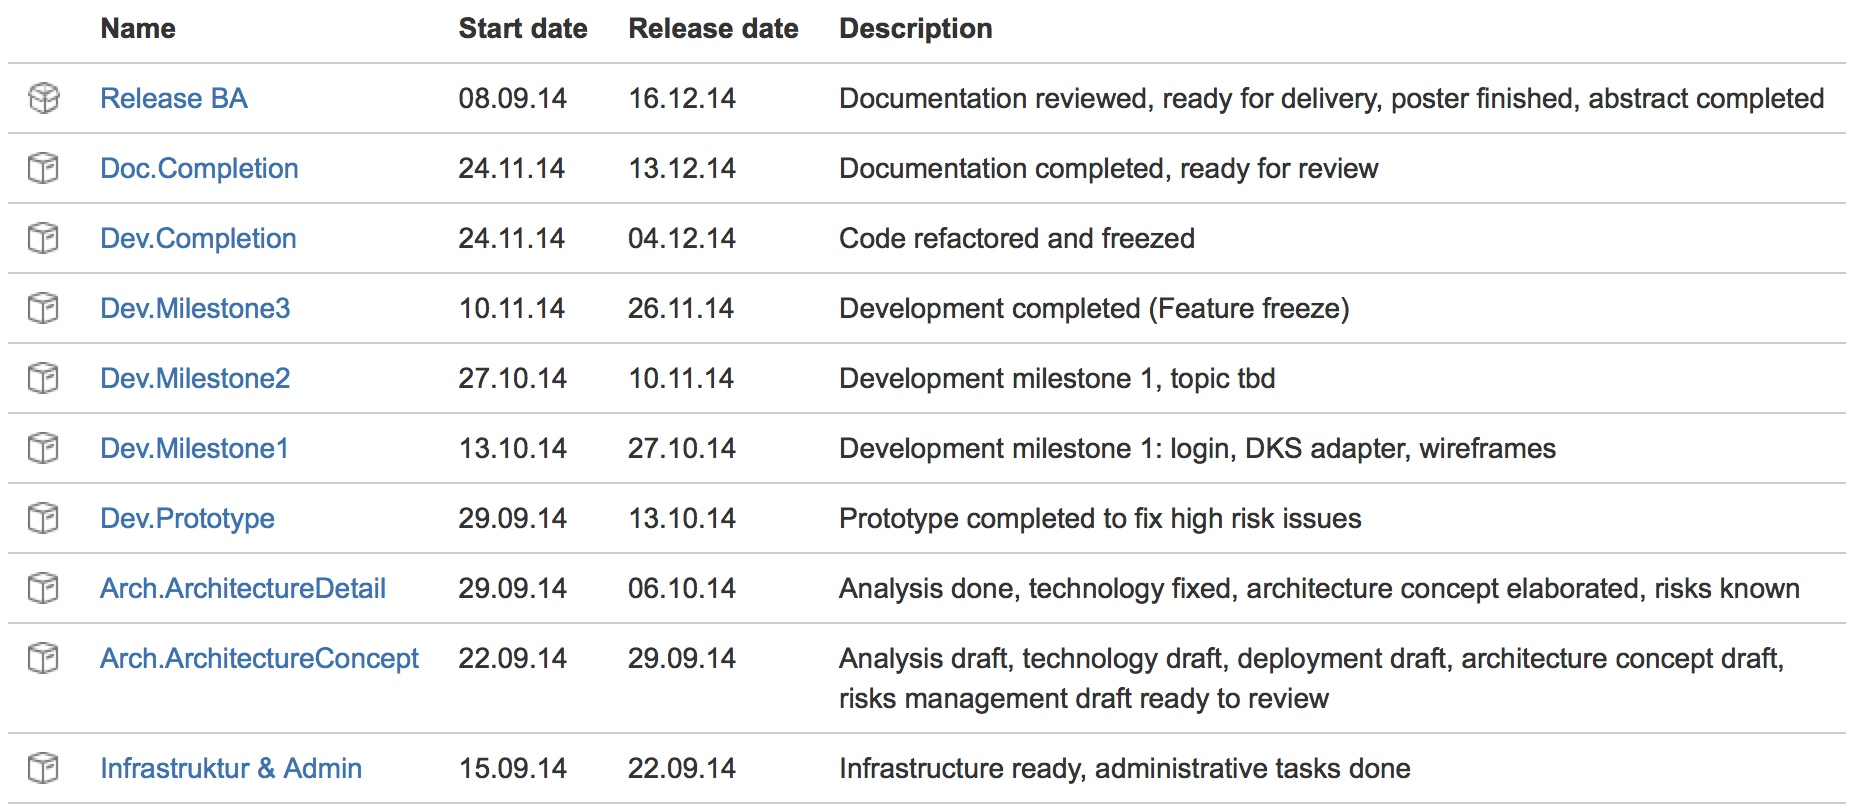
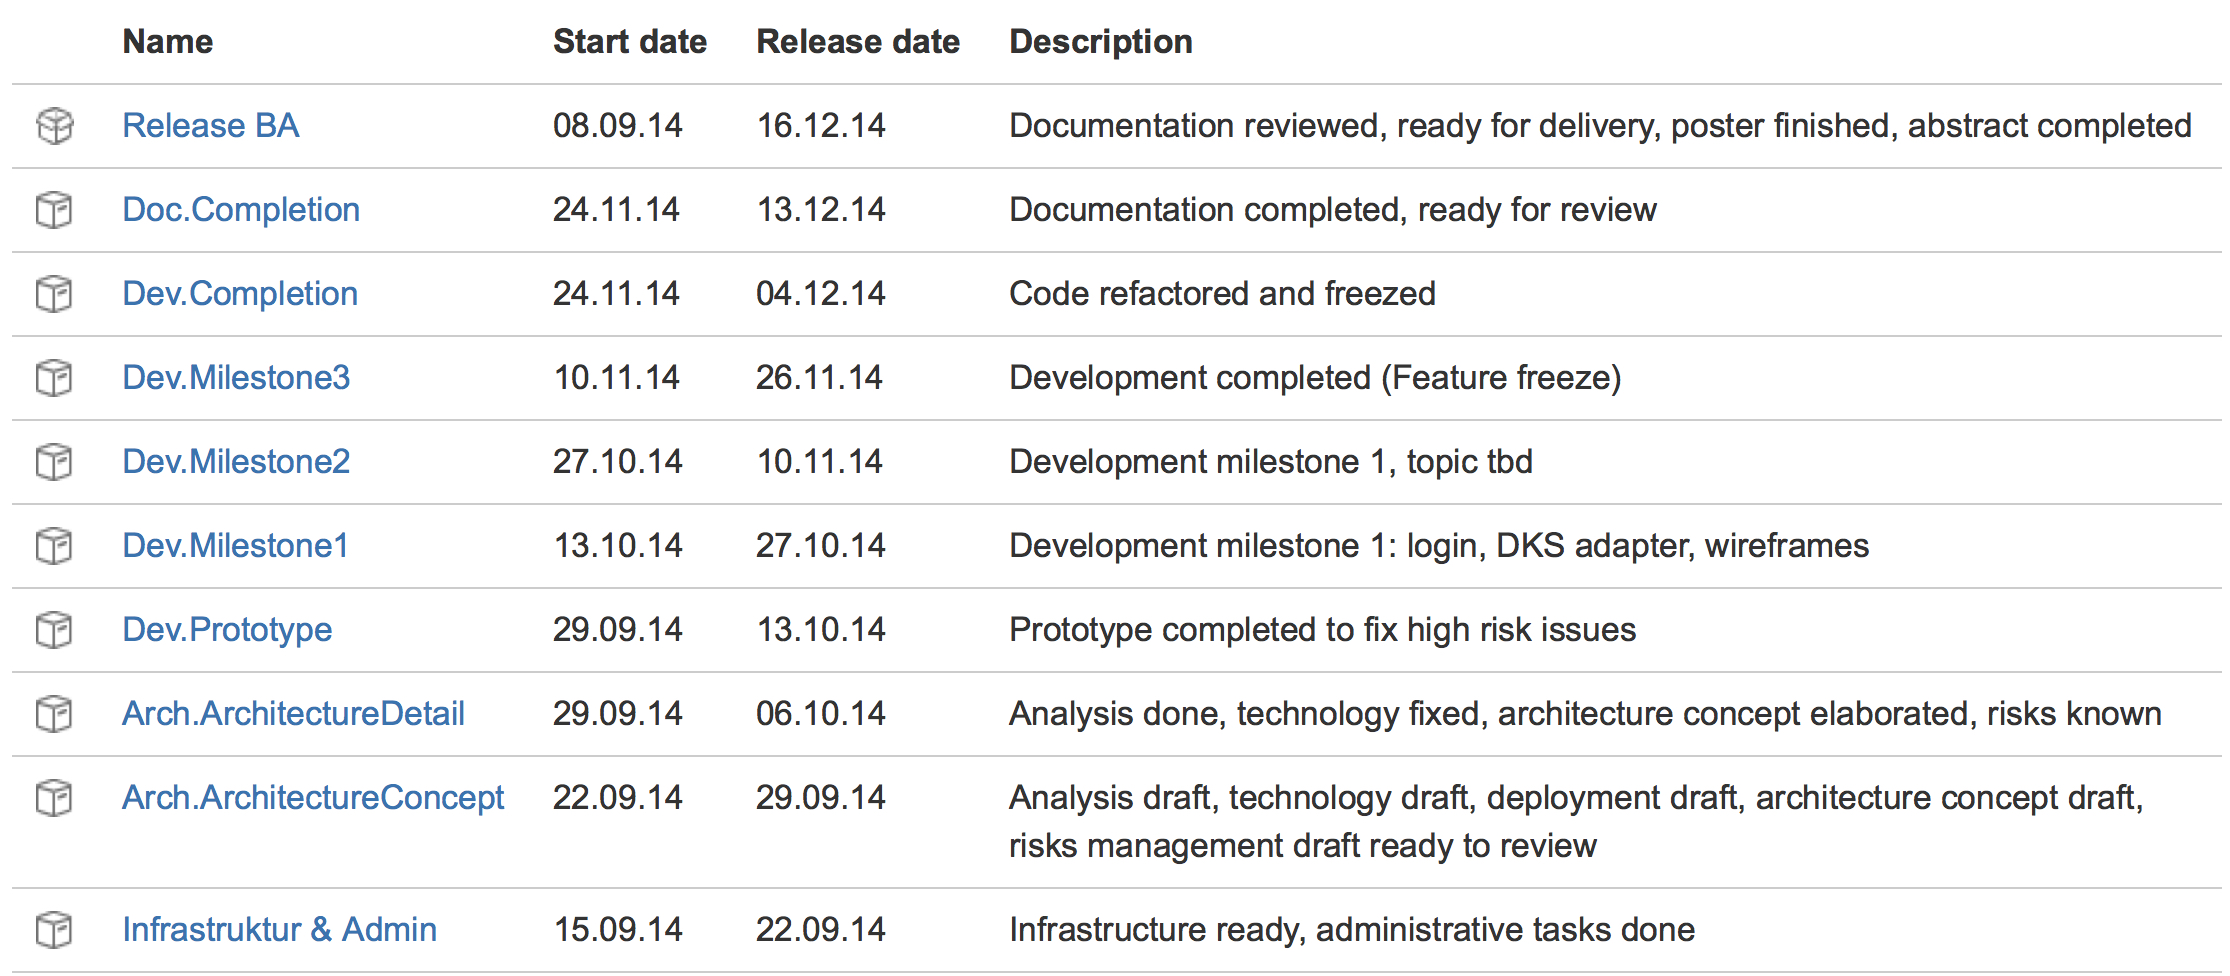
Reworked project planning and increased resolution of milestones

diff --git a/projectPlan/projectManagement.tex b/projectPlan/projectManagement.tex
@@ -5,11 +5,12 @@
 	
 	\section{Projektmanagement}
 		Zur Grobplanung und zur Planung der Meilensteine wurden Jira-Versions eingesetzt.
-		Die Meilensteine wurden zu Beginn des Projekts definiert und zeitlich festgelegt.
+		Die Meilensteine hat das Projektteam zu Beginn des Projekts definiert und zeitlich festgelegt.
 		Diese Planung ist auch in Abbildung~\ref{fig:jiraVersions} zu sehen.
-		Für die Meilensteine am Anfang und am Ende wurde auch der Inhalt entschieden,
-		bei den Meilensteinen in der Mitte (den "<Dev.Milestones">) wurde, wie im agilen Projektmanagement üblich,
-		der Inhalt jeweils zu Beginn zusammen mit dem Betreuer als Ansprechpartner der Kundengruppe entschieden.
+		
+		Für die Architektur-Meilensteine und die Meilensteine zum Abschluss der Dokumentation wurde bereits bei der Grobplanung deren Inhalt entschieden.
+		Für die Entwicklungsmeilensteine wurde, wie im agilen Projektmanagement üblich,
+		deren Inhalt jeweils zu Beginn zusammen mit dem Betreuer als Ansprechpartner der Kundengruppe definiert.
 		
 		\begin{figure}[H]
 			\includegraphics[width=\textwidth]{projectPlan/media/img/jiraVersions.jpg}

diff --git a/BA-EntwurfsentscheidungenAlsProjektplanungsinstrument-EEPPI-LaurinMurer-TobiasBlaser.tex b/BA-EntwurfsentscheidungenAlsProjektplanungsinstrument-EEPPI-LaurinMurer-TobiasBlaser.tex
@@ -228,8 +228,6 @@ urlcolor=black
 \input{conclusion/dank}
 
 % projektplan
-\chapter*{Projektplan}
-	\documentPartEntry{Projektplan}
 \input{projectPlan/timeManagement}
 \input{projectPlan/riskManagement}
 
